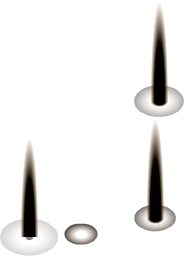
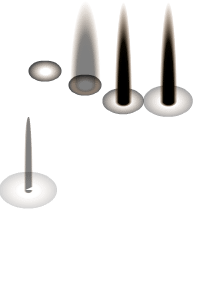
Fixed blackspike bug

diff --git a/static/units/black_spike_base.js b/static/units/black_spike_base.js
@@ -1,0 +1,14 @@
+(function(window) {
+sprite_23_(BlackSpike) = function() {
+	this.initialize();
+}
+sprite_23_(BlackSpike)._SpriteSheet = new createjs.SpriteSheet({images: ["black_spike_base.png"], frames: [[0,0,22,14,0,11,7],[22,0,46,87,0,23,71],[68,0,35,97,0,17,85],[103,0,41,115,0,20,101],[144,0,49,117,0,24,101],[0,117,57,92,0,28,73],[57,117,68,163,0,34,141],[125,117,66,161,0,33,140]]});
+var sprite_23_(BlackSpike)_p = sprite_23_(BlackSpike).prototype = new createjs.Sprite();
+sprite_23_(BlackSpike)_p.Sprite_initialize = sprite_23_(BlackSpike)_p.initialize;
+sprite_23_(BlackSpike)_p.initialize = function() {
+	this.Sprite_initialize(sprite_23_(BlackSpike)._SpriteSheet);
+	this.paused = false;
+}
+window.sprite_23_(BlackSpike) = sprite_23_(BlackSpike);
+}(window));
+
